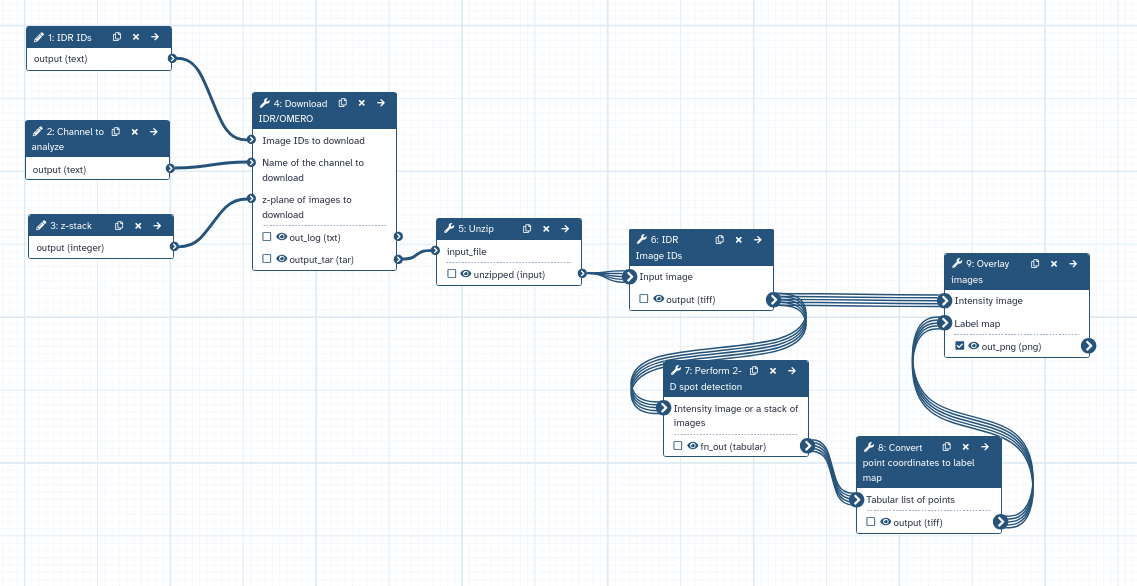
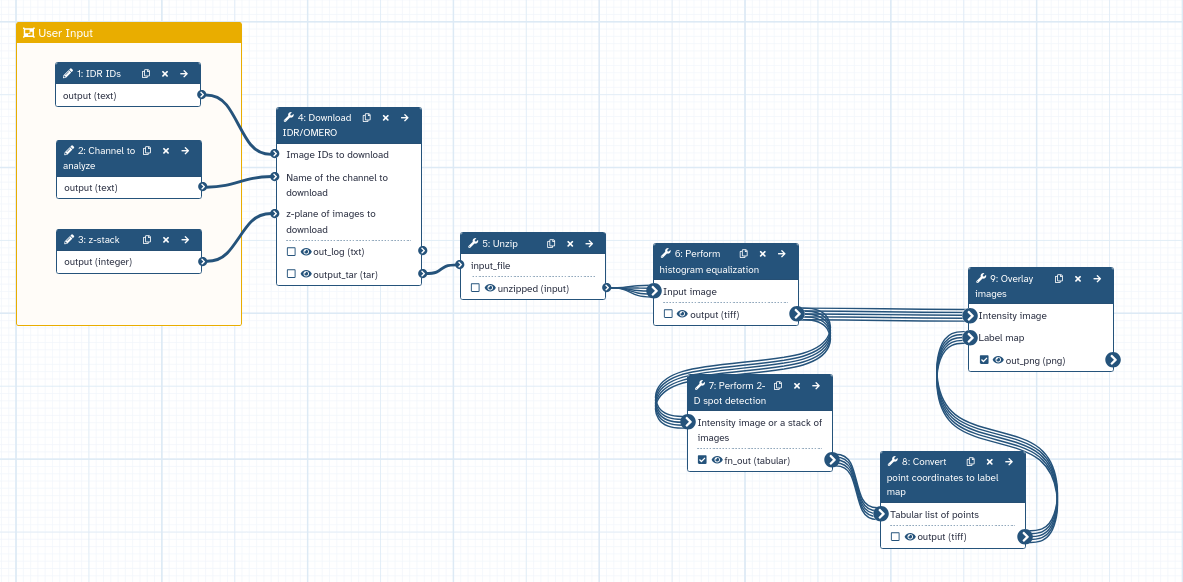
tutorial small fixes

diff --git a/topics/imaging/tutorials/2D-spot-detection/tutorial.md b/topics/imaging/tutorials/2D-spot-detection/tutorial.md
@@ -26,6 +26,8 @@ contributions:
   funding:
     - nfdi4bioimage
     - dfg
+  reviewing:
+    - kostrykin
 tags:
   - RNA
   - smFISH
@@ -33,8 +35,8 @@ tags:
 ---
 
 
-Detect of multiple bright spots in an image using basic computer vision and image processing 
-technique used to identify and localize regions 
+The objective is to detect multiple bright spots in an image using a basic computer vision and image processing 
+technique for identification and localization of regions 
 of high intensity within an image. 
 These spots often correspond to features of interest, such as fluorescent markers 
 in biological imaging.
@@ -88,15 +90,16 @@ and selected the 10th z-stack for analysis.
 
 # Improve image contrast 
 
-Your image should look something like this:
+When inspecting the image visually, we get the impression that the image is entirely black:
 
 ![2025_pre_clahe.png](../../images/2d_spot_detection/2025_pre_clahe.png){: width="75%"}
 
 It's not the best quality for a first visual inspection!
 
 
-As described in [a previous Galaxy Tutorial]{% link topics/imaging/tutorials/imaging-introduction/tutorial.md %}, the original image is 16-bit and the intensity values are spread
-over a larger range than the display can render. 
+As described in the Galaxy Imaging Introduction Tutorial, the original image is 16-bit and the intensity values are spread
+over a very small fraction of the range of intensity values that can be represented using 16 bits.
+
 Therefore, for improved visibility the intensity histogram of the image can be normalized first.
 
 We will normalize the histogram to improve the contrast. 
@@ -150,10 +153,16 @@ The TSV output will have 1649 lines, meaning 1649 spots detected!
 ![TSV_output.png](../../images/2d_spot_detection/TSV_output.png)
 
 # Convert spots coordinates to labels
- Let's try now to visualize our results! The first step is to create a label map from the TSV file...
+Let's try now to visualize our results! The first step is to create a label map from the TSV file...
 This can be nicely done by converting the point coordinates to a label map and we have a tool for it!
 
-> <hands-on-title>Segment image</hands-on-title>
+Please notice that the width and height of the image are necessary inputs to corretly overlay
+the label map in the next step! 
+You can get these info by running the [Show image info](toolshed.g2.bx.psu.edu/repos/imgteam/image_info/ip_imageinfo/5.7.1+galaxy1)
+tool on the original image!
+
+
+> <hands-on-title>Create the label map from the points coordinates</hands-on-title>
 >
 > 1. {% tool [Convert point coordinates to label map](toolshed.g2.bx.psu.edu/repos/imgteam/points2labelimage/ip_points_to_label/0.4+galaxy0) %} with the following parameters to detect the 2D spots:
 >    - {% icon param-file %} *"Tabular list of points"*: `RNA_spot_detected.tsv` file
